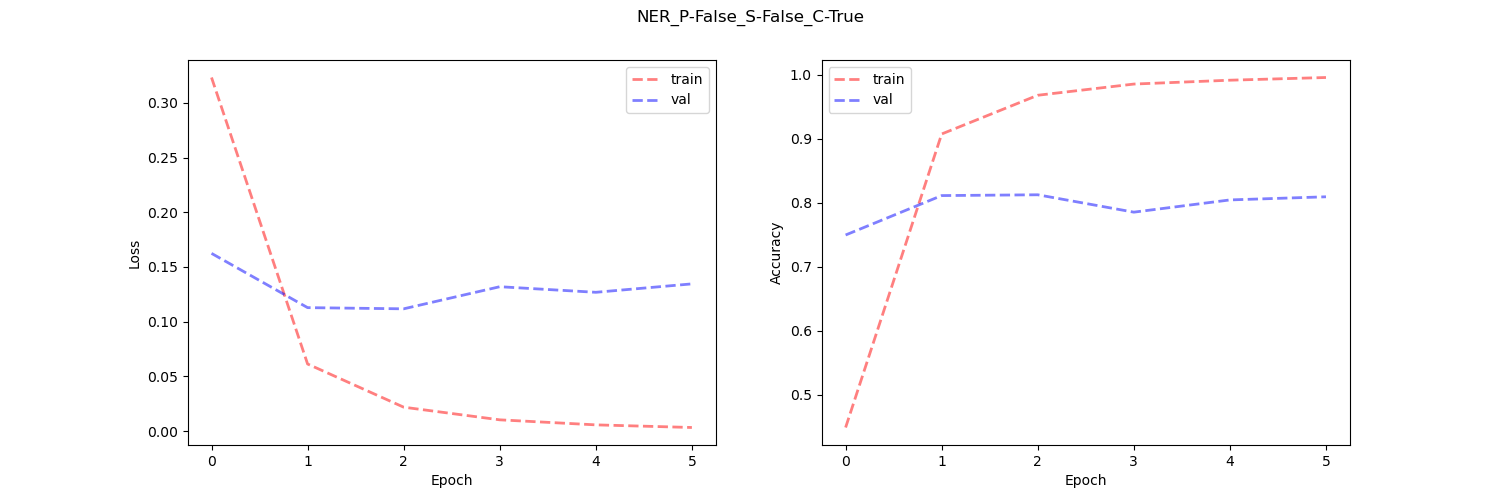
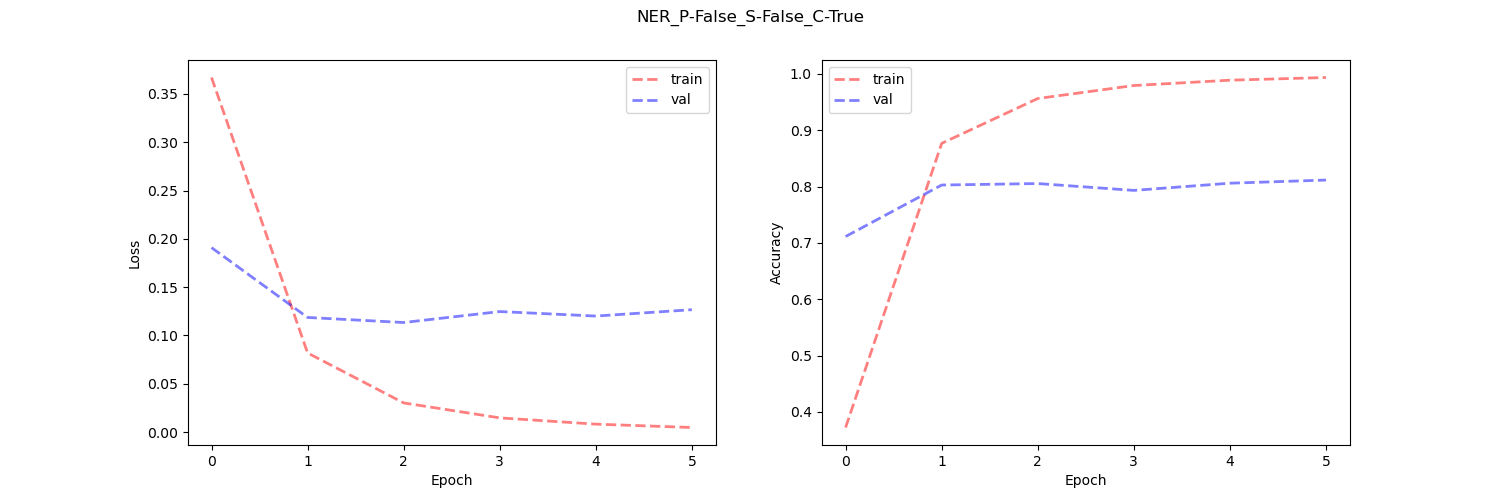
update ner5

diff --git a/tagger1.py b/tagger1.py
@@ -445,7 +445,7 @@ params_dict = {
 # {'hidden_layer': 130, 'dropout_p': 0.4, 'batch_size': 128, 'lr': 0.001, 'nepochs': 5/3(p/not p)}
 # best parameters5:
 #
-best_params_dict = {'hidden_layer': [130], 'dropout_p': [0.4], 'batch_size': [128], 'lr': [0.00025]}
+best_params_dict = {'hidden_layer': [130], 'dropout_p': [0.4], 'batch_size': [128], 'lr': [0.0002]}
 print('searching parameters...\n')
 best_tagger = parameters_search(best_params_dict, 6, train_dataset, dev_dataset, vocab, mission='NER',
                                 pre_trained_emb=pre_embedding, pre_vocab=pre_vocab, suf_vocab=suf_vocab,
